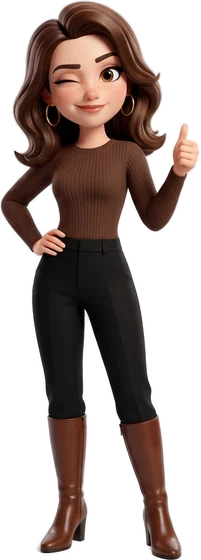
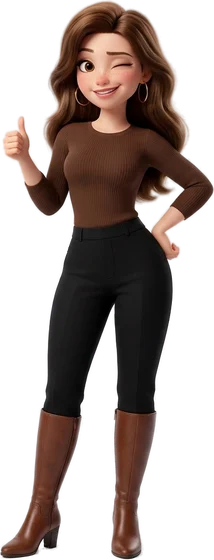
Character phase 1 of 6 (owner only): peek over the card with hands on the edge, sit on the corner swinging, back-lean, walk-in entrance, poses rotate per screen, watch after 1 min / yawn after 2, click reactions, hide toggle. Chat save button returns instantly, saves in background

diff --git a/js/va-maya.js b/js/va-maya.js
@@ -9,7 +9,20 @@
      סיכום: קופצת עם קלאפר "אקשן!"
    בשאר המסכים היא מחבקת את הכרטיס מהצד, והיד שלה על הקצה שלו. */
 
-export const POSES = ['hug', 'dance', 'camera', 'mic', 'chairs', 'coffee', 'fishing', 'clapper'];
+export const POSES = ['hug', 'dance', 'camera', 'mic', 'chairs', 'coffee', 'fishing', 'clapper',
+  'peek', 'swing', 'walk', 'backlean', 'watch', 'yawn', 'wink', 'laugh'];
+
+/* שלב 1 מתוך 6 של "50 הרעיונות" (מאיה סימנה את כולם, 10/11/2026):
+   עוטפת את הכרטיס וחיה: מציצה מעליו עם הידיים על הקצה, יושבת על הפינה
+   ומנדנדת רגליים, נשענת בגב, נכנסת בהליכה, ועוברת מצד לצד בין המסכים.
+   בלי פעילות: שעון אחרי דקה, פיהוק אחרי שתיים. לחיצה עליה: קריצה, צחוק
+   או ריקוד. וכפתור להסתיר אותה. */
+const WRITING_SCREENS = new Set(['idea-sharpen', 'type-idea', 'transcribe', 'content-basics', 'creative-packaging', 'footage-speech-sharpen', 'scratch-distill', 'prompt2']);
+const SIDE_ROTATION = ['swing', 'backlean', 'hug'];
+export const IDLE_FIRST_MS = 60 * 1000;
+export const IDLE_SECOND_MS = 120 * 1000;
+const REACTIONS = ['wink', 'laugh', 'dance'];
+const HIDE_KEY = 'moach.mayaHidden';
 
 /* עד שמאיה מאשרת את הדמות במסך האמיתי, רק היא רואה אותה. לפתוח לכולן:
    FOR_ALL = true. */
@@ -26,7 +39,65 @@ export function poseFor(screen) {
   if (screen === 'summary') return 'clapper';
   if (MEGILLAH_SCREENS.has(screen)) return 'coffee';
   if (HOOK_SCREENS.has(screen)) return 'fishing';
-  return 'hug';
+  if (screen === 'format-choice') return 'hug';
+  if (WRITING_SCREENS.has(screen)) return 'peek';
+  /* "עוברת מצד לצד": בכל מסך אחר תנוחה אחרת, קבועה לאותו מסך */
+  let h = 0;
+  for (const ch of String(screen || '')) h = (h * 31 + ch.charCodeAt(0)) >>> 0;
+  return SIDE_ROTATION[h % SIDE_ROTATION.length];
+}
+
+/** האם הדמות מוסתרת (כפתור "להסתיר את מאיה") */
+export function mayaHidden() {
+  try { return localStorage.getItem(HIDE_KEY) === '1'; } catch { return false; }
+}
+function setHidden(on) {
+  try { localStorage.setItem(HIDE_KEY, on ? '1' : '0'); } catch { /* בלי אחסון: רק לסשן הזה */ }
+  document.querySelectorAll('.va-maya').forEach((f) => { f.hidden = on; });
+  const btn = document.getElementById('va-maya-toggle');
+  if (btn) { btn.textContent = on ? '👩 להחזיר את מאיה' : '🙈 להסתיר את מאיה'; btn.setAttribute('aria-pressed', String(on)); }
+}
+function ensureToggle() {
+  const bar = document.querySelector('#video-assistant-view .va-topbar-end');
+  if (!bar || document.getElementById('va-maya-toggle')) return;
+  const btn = document.createElement('button');
+  btn.type = 'button';
+  btn.id = 'va-maya-toggle';
+  btn.className = 'va-maya-toggle';
+  btn.addEventListener('click', () => setHidden(!mayaHidden()));
+  bar.appendChild(btn);
+  setHidden(mayaHidden());
+}
+
+/* בלי פעילות: שעון, ואז פיהוק. כל פעולה מחזירה אותה לתנוחה של המסך. */
+let idleTimers = [];
+let basePose = 'hug';
+let idleWired = false;
+function clearIdle() { idleTimers.forEach(clearTimeout); idleTimers = []; }
+function armIdle() {
+  clearIdle();
+  /* unref: בבדיקות (node) הטיימר לא מחזיק את התהליך פתוח. בדפדפן אין unref. */
+  const t1 = setTimeout(() => tempPose('watch'), IDLE_FIRST_MS);
+  const t2 = setTimeout(() => tempPose('yawn'), IDLE_SECOND_MS);
+  [t1, t2].forEach((t) => { if (t && typeof t.unref === 'function') t.unref(); });
+  idleTimers.push(t1, t2);
+}
+function onActivity() {
+  const fig = figEl();
+  if (fig && (fig.classList.contains('va-maya--watch') || fig.classList.contains('va-maya--yawn'))) setMayaPose(basePose);
+  armIdle();
+}
+function wireIdle() {
+  if (idleWired || typeof document === 'undefined') return;
+  idleWired = true;
+  ['keydown', 'pointerdown', 'input', 'scroll'].forEach((ev) => document.addEventListener(ev, onActivity, { passive: true, capture: true }));
+}
+function tempPose(pose) {
+  const fig = figEl();
+  if (!fig) return;
+  const keep = basePose;
+  setMayaPose(pose);
+  basePose = keep;
 }
 
 /** האביזר לפי הפורמט שפותחים או מרחפים עליו */
@@ -54,6 +125,14 @@ const ALT = {
   coffee: 'מאיה עם קפה, קוראת',
   fishing: 'מאיה עם חכה',
   clapper: 'מאיה קופצת עם קלאפר',
+  peek: 'מאיה מציצה מעל הכרטיס',
+  swing: 'מאיה יושבת על הכרטיס',
+  walk: 'מאיה נכנסת',
+  backlean: 'מאיה נשענת על הכרטיס',
+  watch: 'מאיה מסתכלת בשעון',
+  yawn: 'מאיה מפהקת',
+  wink: 'מאיה קורצת',
+  laugh: 'מאיה צוחקת',
 };
 
 let lastPose = null;
@@ -84,6 +163,27 @@ export function mountMaya(card, screen) {
   img.draggable = false;
   fig.appendChild(img);
   card.appendChild(fig);
+  /* נכנסת בהליכה בפעם הראשונה שהעוזר נפתח, ואז נעמדת בתנוחה של המסך */
+  if (!lastPose) {
+    fig.classList.add('is-entering');
+    img.src = 'assets/maya/maya-walk.webp';
+    setTimeout(() => {
+      if (!fig.isConnected) return;
+      fig.classList.remove('is-entering');
+      img.src = `assets/maya/maya-${pose}.webp`;
+    }, 1300);
+  }
+  /* לחיצה עליה: קריצה, צחוק או ריקוד, ואז חוזרת */
+  img.addEventListener('click', () => {
+    const r = REACTIONS[Math.floor(Math.random() * REACTIONS.length)];
+    tempPose(r);
+    setTimeout(() => { if (fig.isConnected) setMayaPose(basePose); }, 1800);
+  });
+  basePose = pose;
+  fig.hidden = mayaHidden();
+  ensureToggle();
+  wireIdle();
+  armIdle();
   /* בטלפון נשמר מקום לדמות מעל הכרטיס, רק כשהיא באמת מוצגת */
   const view = card.closest('#video-assistant-view');
   if (view) view.classList.add('has-maya');
@@ -99,6 +199,7 @@ export function setMayaPose(pose) {
   img.src = `assets/maya/maya-${pose}.webp`;
   img.alt = ALT[pose];
   lastPose = pose;
+  basePose = pose;
 }
 
 /** מצב רגעי על הדמות: 'is-cast' (זורקת חכה), 'is-reel' (שולפת הוק) */

diff --git a/css/style.css b/css/style.css
@@ -9038,3 +9038,38 @@ body[data-plan="refs"] .hub-full-only { display: none !important; }
   }
   #video-assistant-view .va-maya:not(.va-maya--hug) { left: calc(50% + 282px); }
 }
+
+/* ----- 10/11/2026 שלב 1 מתוך 6: עוטפת את הכרטיס וחיה -----
+   מציצה: הראש והאמות מעל הקצה העליון, היד משתלשלת על הכרטיס.
+   יושבת: על הפינה העליונה השמאלית, הרגליים על הכרטיס ומתנדנדות.
+   נשענת בגב / מחבקת / שאר התנוחות: צמודות לחלון ליד הקצה של הכרטיס. */
+#video-assistant-view .va-maya[hidden] { display: none; }
+#video-assistant-view .va-maya img { pointer-events: auto; cursor: pointer; }
+#video-assistant-view .va-maya.va-maya--peek,
+#video-assistant-view .va-maya.va-maya--swing { position: absolute; bottom: auto; }
+#video-assistant-view .va-maya.va-maya--peek { top: -112px; left: 22px; height: 240px; }
+#video-assistant-view .va-maya.va-maya--peek img { pointer-events: none; animation: va-maya-peek 5s ease-in-out infinite; transform-origin: 50% 70%; }
+@keyframes va-maya-peek { 0%, 100% { transform: rotate(0); } 40% { transform: rotate(-2deg); } 70% { transform: rotate(1.5deg); } }
+#video-assistant-view .va-maya.va-maya--swing { top: -196px; left: -52px; height: 330px; }
+#video-assistant-view .va-maya.va-maya--swing img { pointer-events: none; animation: va-maya-swing 2.4s ease-in-out infinite; transform-origin: 70% 60%; }
+@keyframes va-maya-swing { 0%, 100% { transform: rotate(-1.5deg); } 50% { transform: rotate(1.5deg); } }
+@media (min-width: 961px) {
+  #video-assistant-view .va-maya.va-maya--backlean { left: calc(50% + 262px); }
+}
+#video-assistant-view .va-maya.is-entering img { animation: va-maya-walkin 1.3s ease-out both; }
+@keyframes va-maya-walkin { from { transform: translateX(260px); opacity: 0; } to { transform: translateX(0); opacity: 1; } }
+#video-assistant-view .va-maya--yawn img { animation: va-maya-yawn 2.4s ease-in-out infinite; transform-origin: 50% 100%; }
+@keyframes va-maya-yawn { 0%, 100% { transform: scaleY(1); } 50% { transform: scaleY(1.02) translateY(-3px); } }
+@media (max-width: 960px) {
+  #video-assistant-view .va-maya.va-maya--peek { top: -96px; left: 50%; transform: translateX(-50%); width: auto; height: 170px; }
+  #video-assistant-view .va-maya.va-maya--swing { top: -104px; left: 10px; width: auto; height: 104px; }
+}
+.va-maya-toggle {
+  min-height: 30px; padding: 0 12px; border-radius: 999px;
+  border: 1px solid rgba(255,255,255,.28); background: rgba(255,255,255,.08); color: #fff;
+  font: inherit; font-size: 12.5px; cursor: pointer;
+}
+.va-maya-toggle:hover { background: rgba(255,255,255,.18); }
+@media (prefers-reduced-motion: reduce) {
+  #video-assistant-view .va-maya.is-entering img { animation: none; }
+}

diff --git a/js/idea-chat.js b/js/idea-chat.js
@@ -287,12 +287,13 @@ function addPostIdeaButtons(bubble, finalizedText, ideaSummary) {
     goBtn.type = 'button';
     goBtn.className = 'chat-cta-btn chat-back-assistant-btn';
     goBtn.textContent = '💾 לשמור את הרעיון ולהמשיך לבנות את הסרטון';
-    goBtn.addEventListener('click', async () => {
+    /* 10/11/2026 (מאיה: "הכפתורים איטיים"): השמירה חיכתה לסיווג (עד 12
+       שניות). עכשיו חוזרים לעוזר מיד, והשמירה רצה ברקע ומודיעה כשסיימה. */
+    goBtn.addEventListener('click', () => {
       goBtn.disabled = true;
-      goBtn.textContent = 'שומרים...';
-      const saved = await saveIdeaQuietly(finalizedText, message);
-      if (!saved) showToast('השמירה בבנק הרעיונות לא עברה, אבל הרעיון עובר לעוזר');
-      else showToast('✓ הרעיון נשמר בבנק, ממשיכים לבנות את הסרטון');
+      saveIdeaQuietly(finalizedText, message).then((saved) => {
+        showToast(saved ? '✓ הרעיון נשמר בבנק הרעיונות' : 'השמירה בבנק הרעיונות לא עברה, אבל הרעיון כבר בעוזר');
+      });
       returnFromChat({ idea, message, angle });
     });
     bubble.appendChild(goBtn);

diff --git a/sw.js b/sw.js
@@ -1,5 +1,5 @@
 // שינוי כאן גורם לכל מי שפתוחה על גרסה ישנה לקבל את הודעת "גרסה חדשה מוכנה" (18/09: הכנסת update-check.js)
-const CACHE_NAME = 'moach-hashiveki-v191';
+const CACHE_NAME = 'moach-hashiveki-v192';
 const APP_SHELL = ['./', './index.html', './css/style.css', './js/app.js', './manifest.json', './assets/favicon.png'];
 
 self.addEventListener('install', (event) => {
